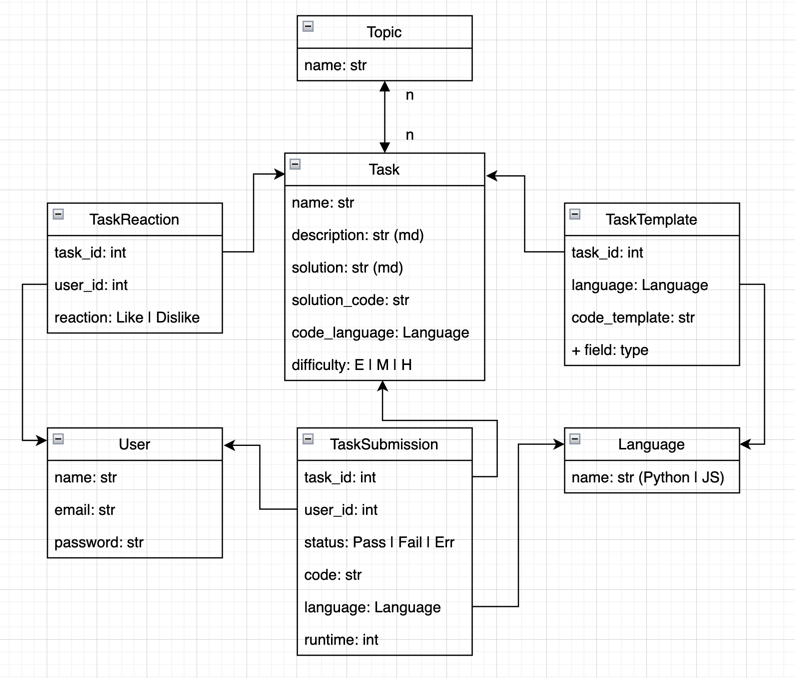
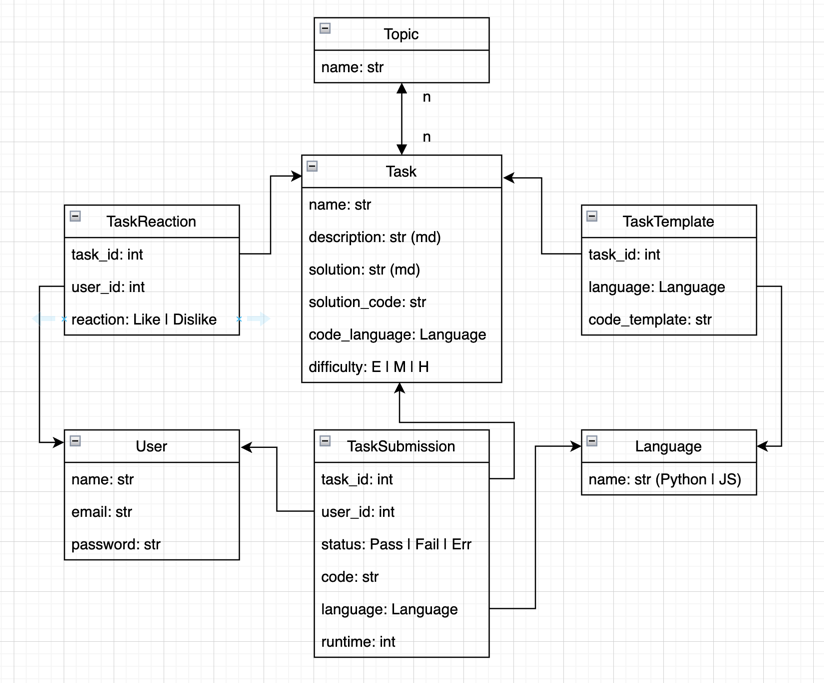
Added models & migrations

Changed region(s): [[0.0, 0.0, 0.966, 0.9912]]

diff --git a/api/core/migrations/0001_initial.py b/api/core/migrations/0001_initial.py
@@ -1,0 +1,223 @@
+# Generated by Django 4.2.1 on 2023-05-17 19:24
+
+from django.conf import settings
+from django.db import migrations, models
+import django.db.models.deletion
+import markdownx.models
+
+
+class Migration(migrations.Migration):
+
+    initial = True
+
+    dependencies = [
+        migrations.swappable_dependency(settings.AUTH_USER_MODEL),
+    ]
+
+    operations = [
+        migrations.CreateModel(
+            name="Language",
+            fields=[
+                (
+                    "id",
+                    models.BigAutoField(
+                        auto_created=True,
+                        primary_key=True,
+                        serialize=False,
+                        verbose_name="ID",
+                    ),
+                ),
+                ("created_at", models.DateTimeField(auto_now_add=True)),
+                ("updated_at", models.DateTimeField(auto_now=True)),
+                (
+                    "name",
+                    models.CharField(
+                        choices=[("PYTHON", "Python"), ("JS", "JavaScript")],
+                        max_length=63,
+                        unique=True,
+                    ),
+                ),
+            ],
+            options={
+                "abstract": False,
+            },
+        ),
+        migrations.CreateModel(
+            name="Task",
+            fields=[
+                (
+                    "id",
+                    models.BigAutoField(
+                        auto_created=True,
+                        primary_key=True,
+                        serialize=False,
+                        verbose_name="ID",
+                    ),
+                ),
+                ("created_at", models.DateTimeField(auto_now_add=True)),
+                ("updated_at", models.DateTimeField(auto_now=True)),
+                ("name", models.CharField(max_length=127, unique=True)),
+                ("description", markdownx.models.MarkdownxField()),
+                ("solution", markdownx.models.MarkdownxField()),
+                ("solution_code", models.TextField()),
+                (
+                    "difficulty",
+                    models.IntegerField(
+                        choices=[(1, "Easy"), (2, "Medium"), (3, "Hard")]
+                    ),
+                ),
+                (
+                    "code_language",
+                    models.ForeignKey(
+                        on_delete=django.db.models.deletion.CASCADE, to="core.language"
+                    ),
+                ),
+            ],
+            options={
+                "abstract": False,
+            },
+        ),
+        migrations.CreateModel(
+            name="Topic",
+            fields=[
+                (
+                    "id",
+                    models.BigAutoField(
+                        auto_created=True,
+                        primary_key=True,
+                        serialize=False,
+                        verbose_name="ID",
+                    ),
+                ),
+                ("created_at", models.DateTimeField(auto_now_add=True)),
+                ("updated_at", models.DateTimeField(auto_now=True)),
+                ("name", models.CharField(max_length=63, unique=True)),
+            ],
+            options={
+                "abstract": False,
+            },
+        ),
+        migrations.CreateModel(
+            name="TaskSubmission",
+            fields=[
+                (
+                    "id",
+                    models.BigAutoField(
+                        auto_created=True,
+                        primary_key=True,
+                        serialize=False,
+                        verbose_name="ID",
+                    ),
+                ),
+                ("created_at", models.DateTimeField(auto_now_add=True)),
+                ("updated_at", models.DateTimeField(auto_now=True)),
+                (
+                    "status",
+                    models.CharField(
+                        choices=[
+                            ("ACCEPTED", "Accepted"),
+                            ("ERROR", "Error"),
+                            ("WRONG_ANSWER", "Wrong answer"),
+                            ("TIME_LIMIT_EXCEEDED", "Time limit exceeded"),
+                        ],
+                        max_length=63,
+                    ),
+                ),
+                ("code", models.TextField()),
+                ("runtime", models.IntegerField(db_comment="Runtime in ms")),
+                (
+                    "language",
+                    models.ForeignKey(
+                        on_delete=django.db.models.deletion.CASCADE, to="core.language"
+                    ),
+                ),
+                (
+                    "task",
+                    models.ForeignKey(
+                        on_delete=django.db.models.deletion.CASCADE, to="core.task"
+                    ),
+                ),
+                (
+                    "user",
+                    models.ForeignKey(
+                        on_delete=django.db.models.deletion.CASCADE,
+                        to=settings.AUTH_USER_MODEL,
+                    ),
+                ),
+            ],
+            options={
+                "ordering": ("-created_at",),
+            },
+        ),
+        migrations.CreateModel(
+            name="TaskTemplate",
+            fields=[
+                (
+                    "id",
+                    models.BigAutoField(
+                        auto_created=True,
+                        primary_key=True,
+                        serialize=False,
+                        verbose_name="ID",
+                    ),
+                ),
+                ("created_at", models.DateTimeField(auto_now_add=True)),
+                ("updated_at", models.DateTimeField(auto_now=True)),
+                ("code_template", models.TextField()),
+                (
+                    "language",
+                    models.ForeignKey(
+                        on_delete=django.db.models.deletion.CASCADE, to="core.language"
+                    ),
+                ),
+                (
+                    "task",
+                    models.ForeignKey(
+                        on_delete=django.db.models.deletion.CASCADE, to="core.task"
+                    ),
+                ),
+            ],
+            options={
+                "unique_together": {("task", "language")},
+            },
+        ),
+        migrations.CreateModel(
+            name="TaskReaction",
+            fields=[
+                (
+                    "id",
+                    models.BigAutoField(
+                        auto_created=True,
+                        primary_key=True,
+                        serialize=False,
+                        verbose_name="ID",
+                    ),
+                ),
+                ("created_at", models.DateTimeField(auto_now_add=True)),
+                ("updated_at", models.DateTimeField(auto_now=True)),
+                (
+                    "reaction",
+                    models.CharField(
+                        choices=[("LIKE", "Like"), ("DISLIKE", "Dislike")],
+                        max_length=63,
+                    ),
+                ),
+                (
+                    "task",
+                    models.ForeignKey(
+                        on_delete=django.db.models.deletion.CASCADE, to="core.task"
+                    ),
+                ),
+                (
+                    "user",
+                    models.ForeignKey(
+                        on_delete=django.db.models.deletion.CASCADE,
+                        to=settings.AUTH_USER_MODEL,
+                    ),
+                ),
+            ],
+            options={
+                "unique_together": {("task", "user")},
+            },
+        ),
+    ]

diff --git a/api/core/models.py b/api/core/models.py
@@ -1,10 +1,92 @@
+from django.conf import settings
 from django.db import models
+from markdownx.models import MarkdownxField
 
 
 class TimeStampAbstract(models.Model):
     created_at = models.DateTimeField(auto_now_add=True)
     updated_at = models.DateTimeField(auto_now=True)
-    deleted_at = models.DateTimeField(null=True, blank=True)
 
     class Meta:
         abstract = True
+
+
+class Topic(TimeStampAbstract):
+    name = models.CharField(max_length=63, unique=True)
+
+    def __str__(self) -> str:
+        return self.name
+
+
+class Language(TimeStampAbstract):
+    class LanguageChoices(models.TextChoices):
+        PYTHON = "PYTHON", "Python"
+        JS = "JS", "JavaScript"
+
+    name = models.CharField(max_length=63, choices=LanguageChoices.choices, unique=True)
+
+
+class Task(TimeStampAbstract):
+    class TaskDifficulty(models.IntegerChoices):
+        EASY = 1, "Easy"
+        MEDIUM = 2, "Medium"
+        HARD = 3, "Hard"
+
+    name = models.CharField(max_length=127, unique=True)
+    description = MarkdownxField()
+    solution = MarkdownxField()
+    solution_code = models.TextField()  # TODO: add django-ace
+    code_language = models.ForeignKey(Language, on_delete=models.CASCADE)
+    difficulty = models.IntegerField(choices=TaskDifficulty.choices)
+
+    def __str__(self) -> str:
+        return self.name
+
+
+class TaskTemplate(TimeStampAbstract):
+    task = models.ForeignKey(Task, on_delete=models.CASCADE)
+    language = models.ForeignKey(Language, on_delete=models.CASCADE)
+    code_template = models.TextField()  # TODO: add django-ace
+
+    class Meta:
+        unique_together = ("task", "language")
+
+    def __str__(self) -> str:
+        return f"{self.task.name} - {self.language.name}"
+
+
+class TaskReaction(TimeStampAbstract):
+    class ReactionChoices(models.TextChoices):
+        LIKE = "LIKE", "Like"
+        DISLIKE = "DISLIKE", "Dislike"
+
+    task = models.ForeignKey(Task, on_delete=models.CASCADE)
+    user = models.ForeignKey(settings.AUTH_USER_MODEL, on_delete=models.CASCADE)
+    reaction = models.CharField(max_length=63, choices=ReactionChoices.choices)
+
+    class Meta:
+        unique_together = ("task", "user")
+
+    def __str__(self) -> str:
+        return f"{self.task.name} - {self.user.email} - {self.reaction}"
+
+
+class TaskSubmission(TimeStampAbstract):
+    class StatusChoices(models.TextChoices):
+        ACCEPTED = "ACCEPTED", "Accepted"
+        ERROR = "ERROR", "Error"
+        WRONG_ANSWER = "WRONG_ANSWER", "Wrong answer"
+        TIME_LIMIT_EXCEEDED = "TIME_LIMIT_EXCEEDED", "Time limit exceeded"
+
+    task = models.ForeignKey(Task, on_delete=models.CASCADE)
+    user = models.ForeignKey(settings.AUTH_USER_MODEL, on_delete=models.CASCADE)
+    status = models.CharField(max_length=63, choices=StatusChoices.choices)
+    code = models.TextField()  # TODO: add django-ace
+    language = models.ForeignKey(Language, on_delete=models.CASCADE)
+    runtime = models.IntegerField(db_comment="Runtime in ms")
+
+    class Meta:
+        ordering = ("-created_at",)
+
+    def __str__(self) -> str:
+        return f"{self.task.name} - {self.user.email} - {self.status}"

diff --git a/api/user/migrations/0002_remove_user_deleted_at.py b/api/user/migrations/0002_remove_user_deleted_at.py
@@ -1,0 +1,17 @@
+# Generated by Django 4.2.1 on 2023-05-17 19:24
+
+from django.db import migrations
+
+
+class Migration(migrations.Migration):
+
+    dependencies = [
+        ("user", "0001_initial"),
+    ]
+
+    operations = [
+        migrations.RemoveField(
+            model_name="user",
+            name="deleted_at",
+        ),
+    ]

diff --git a/api/config/urls.py b/api/config/urls.py
@@ -27,5 +27,6 @@ urlpatterns = [
         SpectacularSwaggerView.as_view(url_name="schema"),
         name="swagger",
     ),
+    path("markdownx/", include("markdownx.urls")),
     path("__debug__/", include("debug_toolbar.urls")),
 ]

diff --git a/api/config/settings.py b/api/config/settings.py
@@ -50,6 +50,7 @@ INSTALLED_APPS = [
     "corsheaders",
     "djoser",
     "drf_spectacular",
+    "markdownx",
     "core",
     "user",
 ]
